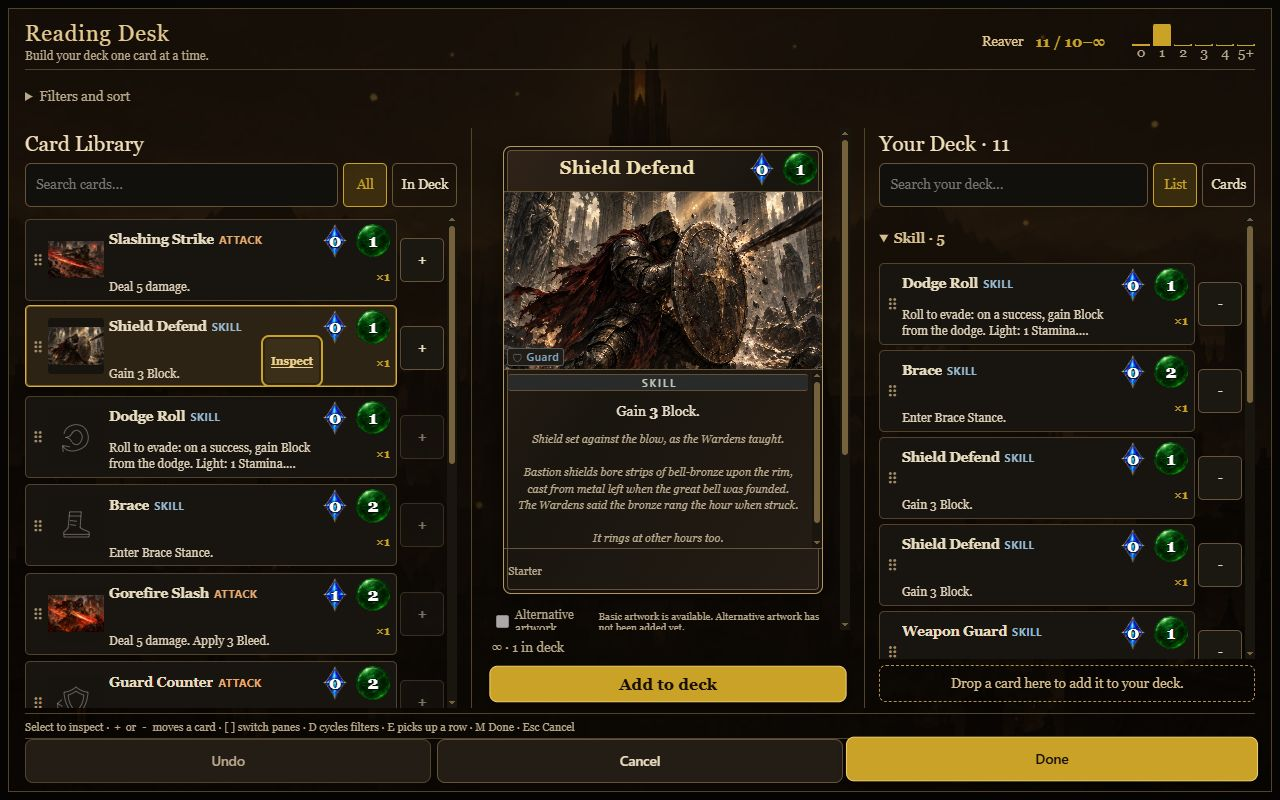
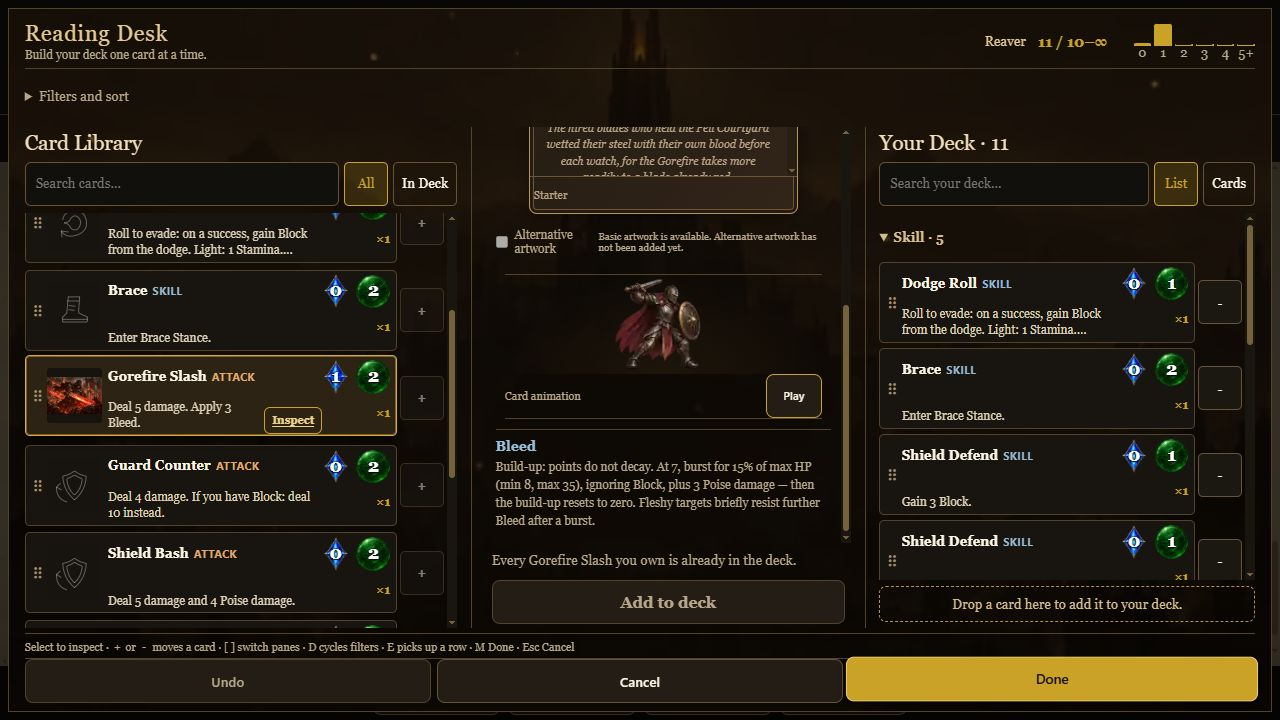
Record packaged Reading Desk interaction checks

Changed region(s): [[0.0, 0.0306, 1.0, 1.0], [0.75, 0.0, 1.0, 0.0917], [0.4688, 0.0917, 0.5312, 0.1222]]

diff --git a/docs/design/deck-editor/implementation.md b/docs/design/deck-editor/implementation.md
@@ -61,5 +61,10 @@ two-line descriptions, editor drag/resize/snapping, saved drafts and JSON copy.
 Independent review of PR #1535 found and verified a fix for stale sideboard
 mount contents after smith extraction/installation, including unequipped gear.
 The reviewer approved the fix and independently reran its three regression cases.
+Build 0.7.1.840 (digest `6f15217dd5`) completed with the pack and light standalone
+outputs. The packaged game was opened through Map → Deck → Edit deck: inline
+Inspect left the previous card unchanged until pressed, Pause changed to Play,
+all deck images loaded, the card retained its 5:7 ratio, and an equipment card
+was removed and restored successfully. No browser errors were logged.
 The broader test run overlapped a base merge and is being rerun on the settled
-tree. Final build/CI/merge evidence will be recorded before promotion.
+tree. Final CI/merge evidence will be recorded before promotion.
